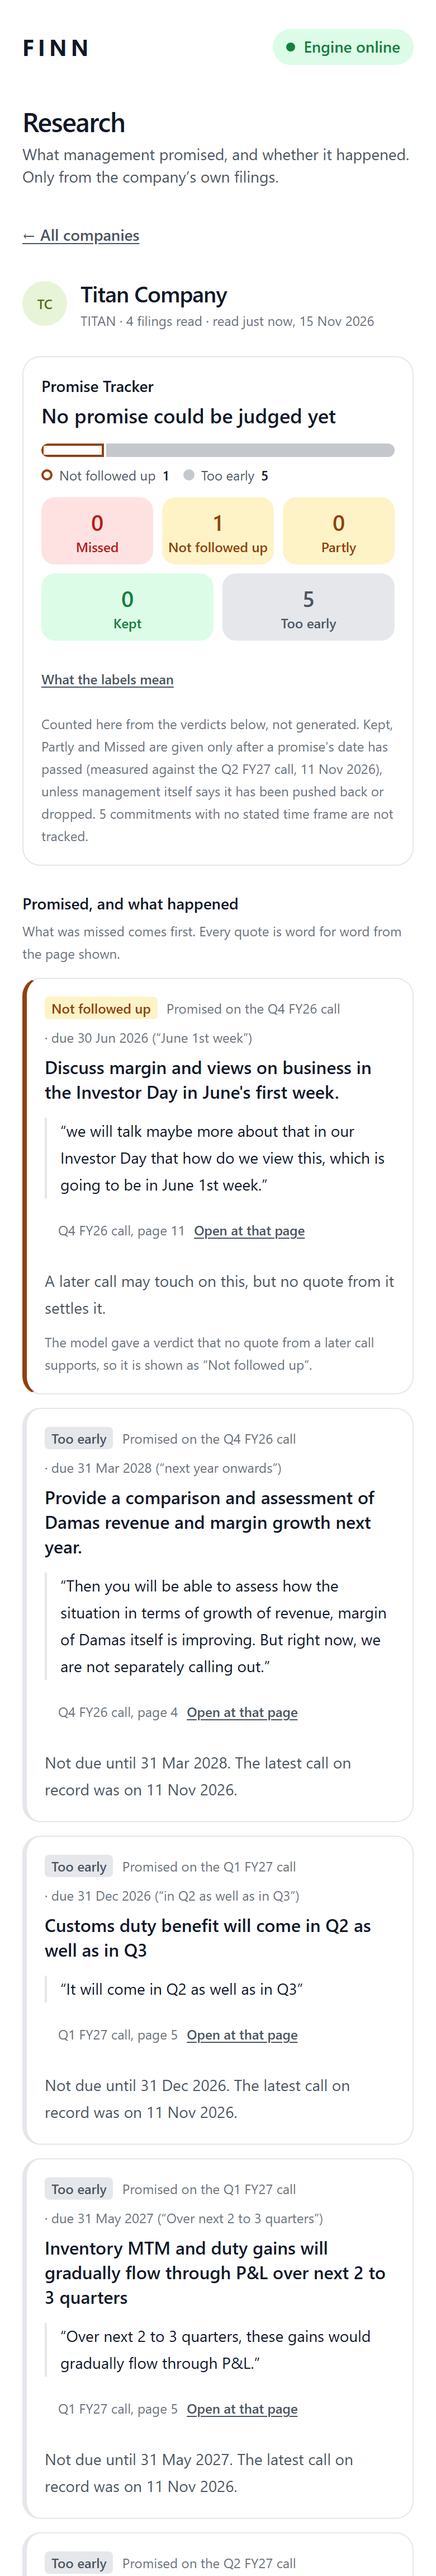
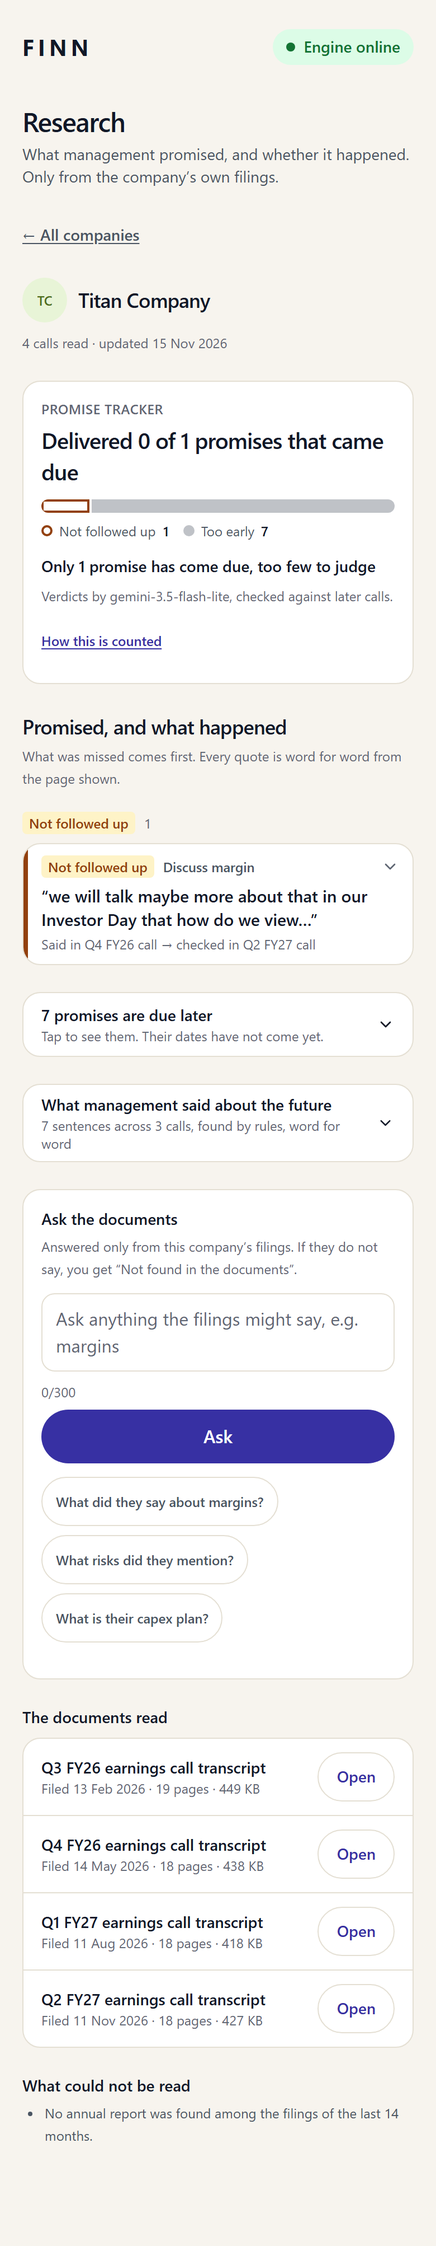
Docs: research behind the design, write-up and email sections, live checks
README: the Brief, Alerts, You and Research as they are now, a "Research
behind the design" table (references checked before use; the 73.3% override
rate is an inpatient study and is cited as one), the live TITAN and Naukri
checks, current test counts (680 backend, 129 frontend). write-up.md has the
four sections the email needs plus the references and their limits. decisions.md
gains S98-S110. submission.md: the email with the same sections and the known
limits as they are. README screenshots retaken from the live site at 390 px.

Research: when fewer than three promises have come due the summary says "too
few to judge" instead of reading as a verdict on a record of one.

diff --git a/frontend/lib/research.test.ts b/frontend/lib/research.test.ts
@@ -282,7 +282,9 @@ describe("the verdict summary", () => {
 
   it("says what the counts mean, by rule", () => {
     expect(soWhat(card({ kept: 1, missed: 3 }))).toBe("Missed more than it kept");
-    expect(soWhat(card({ kept: 1, missed: 1, too_early: 9 }))).toBe("Too early to judge most promises");
+    expect(soWhat(card({ kept: 2, missed: 1, too_early: 9 }))).toBe("Too early to judge most promises");
+    expect(soWhat(card({ kept: 1, missed: 1, too_early: 9 }))).toBe("Only 2 promises have come due, too few to judge");
+    expect(soWhat(card({ not_followed_up: 1, too_early: 7 }))).toBe("Only 1 promise has come due, too few to judge");
     expect(soWhat(card({ kept: 3, partly: 1, not_followed_up: 1, too_early: 5 }))).toBe("Mostly delivers, but went quiet on 1 promise");
     expect(soWhat(card({ kept: 3, not_followed_up: 2, too_early: 1 }))).toBe("Mostly delivers, but went quiet on 2 promises");
     expect(soWhat(card({ kept: 2, not_followed_up: 2, too_early: 1 }))).toBe("Mixed record: 0 missed, 2 gone quiet");

diff --git a/frontend/lib/research.ts b/frontend/lib/research.ts
@@ -329,12 +329,13 @@ export function deliveredShort(card: Scorecard | null): string | null {
 
 /**
  * One plain line on what the counts say, from fixed rules (never a model), bad news first:
- * nothing due, "Missed more than it kept", mostly too early, "Mostly delivers, but went quiet on 2 promises", and so on.
+ * nothing due, fewer than three due (too few to judge), "Missed more than it kept", mostly too early, "Mostly delivers, but went quiet on 2 promises", and so on.
  */
 export function soWhat(card: Scorecard): string {
   const { delivered, due } = decidedCounts(card);
   const quiet = card.not_followed_up ?? 0;
   if (due === 0) return card.too_early > 0 ? "Too early to judge: nothing has come due yet" : "Nothing to judge yet";
+  if (due < 3) return `Only ${due} ${due === 1 ? "promise has" : "promises have"} come due, too few to judge`;
   if (card.missed > delivered) return "Missed more than it kept";
   if (card.too_early > due) return "Too early to judge most promises";
   const rate = delivered / due;

diff --git a/docs/write-up.md b/docs/write-up.md
@@ -14,7 +14,10 @@ Both fail the same way in practice: a summary that sounds right and is wrong. So
 
 **Pull.** Research on any NSE ticker: the last four earnings-call transcripts and the annual report are found on the exchange and read; what management said about the future is listed word for word with its page; a Promise Tracker judges each promise against later calls; and "Ask the documents" answers only from the filings, or says "Not found in the documents".
 
-## The decisions that mattered
+
+**How it looks and behaves.** The Brief opens with one line counted in code ("1 risk to review · Busy day: 6 of your companies filed", or "Quiet day"), then each company once with its filings under it in three lines: a bold headline, then a grey line with an icon, a short label, a reason of about eight words and a Risk, Watch or Good tag. Everything else (the numbers, the PDF, the long reason) is one tap away. Alerts use the same window control as the Brief, show a calm dot on the tab instead of a count, and say why every alert fired, against the reader's own limit, and whether a filing from the same day explains the move. "You" is a profile without an account: a name kept only on the phone, the 18 companies with mute switches, preferences, and the three principles. Research opens with one counted line ("Delivered 2 of 5 promises that came due"), a stacked bar led by Missed, then the promises bad news first, each in three lines with a word-for-word excerpt and "Said in Q3 FY26 call → checked in Q2 FY27 call". The page is checked at 360 and 390 px, light and dark, with no sideways scroll and every text colour at 4.5:1 contrast or better.
+
+## Key decisions and trade-offs
 
 **Rules before a model, everywhere a rule can do the job.** The exchange labels every filing, so most are classified without any model. A results PDF is read by word position, not by a model, because a model reading a table is how a wrong number gets onto a screen, and because a rule can be tested against the real filing line by line. I tested the extractor on seven very different real results filings (a lender, a PDF turned sideways, a company that prints its year-ago column second, two scans) and each ends in a correct card or an honest refusal. For a scan, a figure is shown only where Yahoo Finance's profit before tax confirms it.
 
@@ -24,9 +27,55 @@ Both fail the same way in practice: a summary that sounds right and is wrong. So
 
 **Find the bugs by reading real output.** The most useful tests were the ones that looked at real data. Reading the live results exposed an off-by-one in a column order (ITC prints its year-ago quarter second), a damaged profit row in a PDF, two regexes that had silently lost their word boundary, and a classifier that called a Vice-Chairman "a minor role". Reading real transcripts showed that management's answers carry no speaker label at all, so I stopped showing speaker names rather than misattribute words. A test of the rate limit showed that the library counted limits per URL, so changing the ticker reset the allowance.
 
+**Trade-offs I chose on purpose.**
+- *Two lines for a headline, not one.* A fact cut to fit one line is a fact cut mid-way. The cost is a slightly taller card.
+- *A reason of about eight words, built by rules, not written by a model.* It is plainer and cheaper, and it can be clumsy ("Run off the specific" is a topic cut from a promise by rule). The longer reason is one tap away.
+- *Counted in code, said in plain words.* "Delivered 2 of 5" is arithmetic on the verdicts; "Mostly delivers, but went quiet on 2 promises" is a fixed rule on the counts. A model never writes a number or a summary a reader could mistake for a finding.
+- *A dot, not a count.* A count asks to be cleared; a dot says "look once". The price is that "new" means "since the data was refreshed", because without accounts there is no per-alert read state.
+- *No accounts.* A name and every setting stay on the phone, which means no sync and no push notifications.
+
+## Research behind the design
+
+These are the findings the design leans on. FINN does not test them: they are reasons for the choices, not results of this project. Each figure below was checked against its source before it went in, and where the evidence comes from another field, or is only press commentary, I say so.
+
+| Finding | What FINN does |
+|---|---|
+| When many companies report on the same day, investors react less to each one: attention is limited (Hirshleifer, Lim & Teoh, 2009) | A short, ranked Brief, and a "Busy day: N of your companies filed" line that says when attention is stretched |
+| Investors who check their portfolios often feel losses more strongly and hold less equity: myopic loss aversion (Benartzi & Thaler, 1995; shown in private investors' survey data by Lee & Veld-Merkoulova, 2016) | One calm Brief with an end, "You're all caught up", not a feed to check |
+| Investors look at their accounts less when they expect bad news (the ostrich effect; Karlsson, Loewenstein & Seppi, 2009), and logged in 9.5% less after a market decline (Sicherman, Loewenstein, Seppi & Utkus, 2016) | Risks first, and a line that says "N risks to review", so bad news is put in front of the reader, not left to be avoided |
+| Individual investors tend to buy stocks that grab their attention (Barber & Odean, 2008) | Spike alerts are calm and give their reason; there is no buy button near an alert |
+| Alerts get overridden: 93% of 2,455 visible medication alerts over four days (Bryant, Fletcher & Payne, 2014); 73.3% in a three-year inpatient study (Nanji et al., 2018) | A dot on the Alerts tab, not a count; a reason on every alert; routine filings in one collapsed row |
+| Robinhood removed its confetti animation in March 2021 amid criticism of gamification (CNBC) | No confetti, streaks, scores or reward animations |
+| Groww's minimal, jargon-free design for first-time investors (press commentary, not a usability study) | Three-line cards in plain words |
+| Sparklines (Tufte); calm technology, information at the edge of attention that moves to the centre only when needed (Weiser & Brown, 1995) | The price trend is a small line behind a tap; the interface speaks when something needs it |
+
+**What these do not show.** The medication studies are about doctors, not investors; I use them for one idea only, that a stream of alerts is overridden. The two attention studies describe what investors did, not what a brief like this would change. Nothing here claims FINN improves returns; the claim is narrower: it does not add to the noise.
+
+**References** (only these; each checked):
+- Hirshleifer, D., Lim, S. S., & Teoh, S. H. (2009). Driven to Distraction: Extraneous Events and Underreaction to Earnings News. *Journal of Finance*, 64(5), 2289–2325.
+- Benartzi, S., & Thaler, R. H. (1995). Myopic Loss Aversion and the Equity Premium Puzzle. *Quarterly Journal of Economics*, 110(1), 73–92.
+- Lee, B., & Veld-Merkoulova, Y. V. (2016). Myopic loss aversion and stock investments: An empirical study of private investors. *Journal of Banking & Finance*, 70, 235–246.
+- Karlsson, N., Loewenstein, G., & Seppi, D. (2009). The ostrich effect: Selective attention to information. *Journal of Risk and Uncertainty*, 38(2), 95–115.
+- Sicherman, N., Loewenstein, G., Seppi, D. J., & Utkus, S. P. (2016). Financial Attention. *Review of Financial Studies*, 29(4), 863–897. (The 9.5% is the fall in logins after a decline in the previous day's market; see the [Carnegie Mellon summary](https://www.cmu.edu/news/stories/archives/2015/december/ostrich-effect.html).)
+- Barber, B. M., & Odean, T. (2008). All That Glitters: The Effect of Attention and News on the Buying Behavior of Individual and Institutional Investors. *Review of Financial Studies*, 21(2), 785–818.
+- Bryant, A. D., Fletcher, G. S., & Payne, T. H. (2014). Drug interaction alert override rates in the Meaningful Use era: no evidence of progress. *Applied Clinical Informatics*. [PMC4187095](https://pmc.ncbi.nlm.nih.gov/articles/PMC4187095). (461 physicians, 18,354 orders, 2,455 visible alerts, 2,280 overridden.)
+- Nanji, K. C., Seger, D. L., Slight, S. P., et al. (2018). Medication-related clinical decision support alert overrides in inpatients. *Journal of the American Medical Informatics Association*, 25(5), 476–481. [PubMed 29092059](https://pubmed.ncbi.nlm.nih.gov/29092059). (An inpatient study at a 793-bed teaching hospital, not an outpatient one.)
+- CNBC, 31 March 2021: [Robinhood gets rid of confetti feature amid scrutiny over gamification of investing](https://www.cnbc.com/2021/03/31/robinhood-gets-rid-of-confetti-feature-amid-scrutiny-over-gamification.html).
+- Groww: [YourStory, 2019, "First-time investors find simplicity of Groww"](https://yourstory.com/2019/05/first-time-investors-find-simplicity-of-groww) (press commentary).
+- Tufte's sparklines. Weiser, M., & Brown, J. S. (1995). Designing Calm Technology.
+
 ## Efficiency
 
-A model is used for three things only, with a cheap model by default and a strong one only for judging; every answer is cached by its input, the prompt version and the model; no whole document is sent; and every call is logged without the prompt or the key. Measured over the whole session: 210 successful calls (75 from the cache) and about 367,000 tokens in and 35,000 out, $0 on the free tier; details in [cost.md](cost.md).
+A model is used for three things only, with a cheap model by default and a strong one only for judging; every answer is cached by its input, the prompt version and the model; no whole document is sent; and every call is logged without the prompt or the key. Measured over the whole session: 222 successful calls (81 from the cache) and about 385,000 tokens in and 36,000 out, $0 on the free tier; details in [cost.md](cost.md).
+
+## What I deliberately left out
+
+- **Push notifications and accounts.** They need a server that holds who you are and where to reach you. FINN keeps a name and every setting on the phone, so there is nothing to sync and nothing to leak; the Alerts screen says plainly that alerts are checked when the app is opened.
+- **News, broker notes and web search on the research side.** Research answers only from the company's own transcripts and annual report, so every claim can show its page. The management bio on a card is the filing's own profile, not a web search.
+- **Company logos and people's photos.** Licensing, privacy and accuracy risk; a coloured initials badge carries the same meaning with none of it.
+- **Following people and investing, as anything but a labelled preview.** The Interested tab, "People to follow" and the Invest sheet are marked Preview in the app: the companies, prices, verdicts and names are real, but following triggers nothing and Invest opens a "coming soon" sheet with no order flow.
+- **Gamification.** No streaks, scores, badges or reward animations. The Brief ends.
+- **A language switch that does nothing.** The You tab says English is the only language today.
 
 ## Honest limits
 
@@ -34,20 +83,29 @@ A model is used for three things only, with a cheap model by default and a stron
 - The strong model's free quota is 20 requests a day and ran out during re-runs, so most shipped verdicts were made by the cheap model (`gemini-3.5-flash-lite`); each record says which model answered. Re-running after the quota resets would use the strong one.
 - Deployed, and research on a ticker that was never prepared works live because the engine falls back to NSE when BSE refuses Render (HTTP 403). It reads transcripts from NSE's filings; an annual report is not always among them (TITAN's was not), and the record says so.
 - Neither Vercel nor Render deploys on `git push` (no GitHub link on either); deploys are triggered by hand.
+- Naukri's 99acres billings promise was wrongly "Not followed up"; it is now Kept, with the Q2 FY27 call as evidence (page 5), re-read on the live site. TITAN, never prepared, researched live on Render in 34 seconds (four transcripts, 8 promises) with no annual report in NSE's feed.
 - HAL files one transcript in 14 months, so no tracker is possible for it; Asian Paints' annual report is over the 25 MB limit and is skipped, and the record says so.
+- Checked in a phone-sized browser at 360 and 390 px, not on a real phone. A promise's topic is cut from its own words by rule and is sometimes clumsy.
 - The Interested tab, following people and Invest are a concept preview (marked Preview in the app). No push notifications: they need accounts. The Alerts screen says so.
 
-## What I would do next
+## Where I'd take it next
+
+First, the engineering:
 
 1. Re-run the Promise Tracker once the strong model's daily quota resets, and read every verdict against the transcripts again.
 2. Add a second source for the annual report when NSE's feed has none (the filing lists on the company's own site).
 3. Move the pipeline to a schedule once a server can reach the exchanges.
 4. Add the consensus estimate for results, so a card can say "beat" or "missed" instead of only "up" or "down" against last year.
 
-### Where I'd take the product
+Then, the product:
 
 1. **Watchlist tabs.** The Brief already has Invested and Interested tabs (the second is a preview on real data). Next: let a reader add any NSE ticker to Interested, keep the list on a server once there are accounts, and give each company its own alert rules.
 2. **Follow people, from primary sources.** The preview lists people named in real management-change filings. The real version tracks a followed person through exchange filings: insider trades (SEBI PIT disclosures), substantial acquisitions (SAST), and management changes. Investor-alert tools such as Trendlyne sell this; FINN would build it from the filings themselves and show the filing as the source.
 3. **Invest through a broker partner.** The "Invest" button is a placeholder. The model I'd test is a SEBI-registered broker partner that opens its own order screen from a company's page; FINN would earn a referral fee and never hold money or give advice. That is the revenue model.
 
-The full record: [decisions](decisions.md) (24 up front, 97 while building), [data sources](data-sources.md) (what was verified, and what failed), and the [build log](build-log.md).
+4. **Optional holdings, with exposure-weighted ranking.** Let a reader say how much they hold, and rank the Brief by what each filing could do to their money, not by the filing's weight alone.
+5. **A three-question first-time setup.** Which companies, how much attention, what counts as a risk; nothing else is asked.
+6. **One brief a day, with quiet hours.** The calm dot is a first step; the next is a single daily time, and silence outside it.
+7. **Hinglish across the app.** Fixed phrases in a dictionary, not machine translation; company names, numbers and quotes stay as filed.
+
+The full record: [decisions](decisions.md) (24 up front, 110 while building), [data sources](data-sources.md) (what was verified, and what failed), and the [build log](build-log.md).

diff --git a/docs/submission.md b/docs/submission.md
@@ -33,22 +33,42 @@ Still yours:
 > **FINN** is a mobile-first Financial Investment Agent for Indian stocks.
 > - **Live app:** https://finn-mocha.vercel.app (open it on a phone; the research engine may take a minute to wake)
 > - **Code:** https://github.com/dpathriya8-maker/finn
-> - **Start with:** the [README](https://github.com/dpathriya8-maker/finn#readme) (what is verified and what is not, in a table) and [docs/write-up.md](https://github.com/dpathriya8-maker/finn/blob/main/docs/write-up.md) (the approach in two pages).
+> - **Start with:** the [README](https://github.com/dpathriya8-maker/finn#readme) (what is verified and what is not, in a table) and [docs/write-up.md](https://github.com/dpathriya8-maker/finn/blob/main/docs/write-up.md) (the approach, the research behind the design, and what I left out).
 >
-> **Look and feel:** price chips and 30-day sparklines on every company card, one icon per filing type, revenue and profit bars on results cards, a stacked verdict bar on Research, and the time window in a bottom sheet.
+> **What I built**
+> - **Push:** a Morning Brief of 18 portfolio companies. One line counted in code ("1 risk to review", "Busy day: 6 of your companies filed", or "Quiet day"), then each company once with its filings under it in three lines, ranked so risks come first, with routine filings collapsed and a finite end. Results cards (Revenue, EBITDA, PBT, PAT, QoQ and YoY, read from the filing with no model and checked against Yahoo Finance); management-change cards with the filing's own profile; calm alerts on thresholds the user sets, each stating its reason and whether a same-day filing explains the move.
+> - **Pull:** research on any NSE ticker from the company's own transcripts and annual report: "Delivered 2 of 5 promises that came due" counted in code, a Promise Tracker with the bad news first (Kept / Partly / Missed / Not followed up / Too early, each with its quote, document and page), what management said about the future, and "Ask the documents", which answers only from the filings or says "Not found in the documents".
+> - **You:** a profile with no account: an optional name kept on the phone, the portfolio with mute, preferences, and how FINN works.
 >
-> **Push:** a Morning Brief of 18 portfolio companies, ranked so risks come first; results cards (Revenue, EBITDA, PBT, PAT, QoQ and YoY, read from the filing with no model and checked against Yahoo Finance); management-change cards with the filing's own profile; alerts on thresholds the user sets, instant to change.
-> **Pull:** research on any NSE ticker from the company's own transcripts and annual report: what management said about the future, a Promise Tracker (Kept / Partly / Missed / Not followed up / Too early, each with its quote, document and page), and "Ask the documents", which answers only from the filings or says "Not found in the documents".
+> **Key decisions and trade-offs**
+> - A claim is shown only with its source, and a number is never a model's guess: a quote appears only if it is word for word on the page it cites; a verdict needs a quote from a later call; a promise is not called Kept, Partly or Missed before its date has passed; every count, change, margin and the "Delivered N of M" line is computed in code.
+> - Rules before a model: most of the app uses no model (classification, the cards, retrieval, the summary lines). A model is used for three things only, a cheap one by default, every answer cached and every call logged: 222 successful calls, 81 from the cache, about 385,000 tokens in and 36,000 out, all on the free tier ($0).
+> - The design follows research on investor attention and alert fatigue (short ranked Brief, risks first, a dot not a count, a reason on every alert, no confetti or streaks); the findings and how I used each, with their limits, are in the write-up. A headline takes two lines, not one, so a fact is never cut mid-way.
+> - [24 decisions made up front and 110 while building](https://github.com/dpathriya8-maker/finn/blob/main/docs/decisions.md), [what was verified about each data source, including what failed](https://github.com/dpathriya8-maker/finn/blob/main/docs/data-sources.md), and the [build log](https://github.com/dpathriya8-maker/finn/blob/main/docs/build-log.md).
 >
-> **How it avoids making things up:** a quote is shown only if it is word for word on the page it cites; a verdict needs a quote from a later call; when a promise is due, every number, change and margin is computed in code, and a promise is not called Kept, Partly or Missed before its date has passed. A source that disagrees is shown, not hidden.
+> **What I deliberately left out**
+> - Push notifications and accounts (they need a server that knows who you are; FINN keeps settings on the phone).
+> - News, broker notes and web search on the research side: research answers only from the company's own filings.
+> - Company logos and people's photos (licensing, privacy and accuracy risk).
+> - Following people and investing exist only as a labelled preview (the data is real; following triggers nothing and Invest is a "coming soon" sheet).
 >
-> **Cost and efficiency:** most of the app uses no model (classification, the cards, retrieval). A model is used for three things only, with a cheap model by default, every answer cached by its input and prompt version, and every call logged. Measured over the whole build session (the live runs of the tracker and their re-runs): 222 successful calls, 81 of them answered from the cache, about 385,000 tokens in and 36,000 out, all on the free tier ($0).
->
-> **Decisions and history:** [24 decisions made up front and 97 while building](https://github.com/dpathriya8-maker/finn/blob/main/docs/decisions.md), [what was verified about each data source, including what failed](https://github.com/dpathriya8-maker/finn/blob/main/docs/data-sources.md), and the [build log](https://github.com/dpathriya8-maker/finn/blob/main/docs/build-log.md).
+> **Where I'd take it next**
+> - Optional holdings, with ranking weighted by exposure.
+> - Following people through exchange filings: insider trades, substantial acquisitions (SAST) and management changes.
+> - A three-question first-time setup; one brief a day with quiet hours.
+> - Hinglish across the app.
+> - Investing through a SEBI-registered broker partner, as the revenue model.
 >
 > **AI build history** (required by the brief): `<share link of the planning chat on claude.ai>` · `<Claude Code session exports or links>` · `<share link of the chat where I studied the brief>`. The step prompts the planning chat wrote are also kept in [STEPS.md](https://github.com/dpathriya8-maker/finn/blob/main/STEPS.md), and every step's outcome is in the build log.
 >
-> **Known limits, stated plainly:** (1) The first run of the Promise Tracker was too generous (24 of 54 verdicts Kept), so I made dates and numbers decided by code and added a second reading; it is now 40 promises: 6 Kept, 1 Partly, 1 Missed, 3 Not followed up, 29 Too early. I read each decided verdict against the transcript and fixed what I found, but have not audited all of them. (2) The strong model's free quota (20 requests a day) ran out during re-runs, so most of these verdicts were made by the cheap model, `gemini-3.5-flash-lite`; each record says which model answered. (3) BSE answers HTTP 403 from Render, so the live engine falls back to NSE: research on a ticker I never prepared works (TITAN: four transcripts read in 32 seconds), but NSE's feed does not always include an annual report, and the record says so. (4) HAL has only one call in the window, so it has no tracker. (5) The Interested tab, following people and the Invest button are a concept preview on real data, marked Preview in the app. (6) No push notifications.
+> **Known limits, stated plainly:**
+> 1. The Promise Tracker's first run was too generous (24 of 54 verdicts Kept), so dates and numbers are now decided by code and a second reading was added. It is now 40 promises: 6 Kept, 1 Partly, 1 Missed, 3 Not followed up, 29 Too early. I read each decided verdict against its transcript and fixed what I found, but have not audited all of them.
+> 2. The strong model's free quota (20 requests a day) ran out during re-runs, so most verdicts were made by the cheap model, `gemini-3.5-flash-lite`; each record says which model answered.
+> 3. Naukri's 99acres billings promise was wrongly "Not followed up"; it is now Kept, with the Q2 FY27 call (page 5) as evidence, re-read on the live site.
+> 4. A ticker I never prepared works live: TITAN was researched on the deployed engine in 34 seconds (four transcripts, 8 promises, a question answered with quotes, an unrelated one answered "Not found"). BSE answers HTTP 403 from Render, so the engine falls back to NSE, whose feed had no annual report for TITAN; the record says so.
+> 5. HAL has only one call, so it has no tracker (the page says why); Asian Paints' annual report is over the 25 MB limit and is skipped.
+> 6. The Interested tab, following people and Invest are a concept preview, marked Preview in the app. No push notifications.
+> 7. Checked in a phone-sized browser at 360 and 390 px, light and dark, not on a real phone. Neither Vercel nor Render deploys on push; I deploy by hand.
 >
 > Thank you,
 > DP

diff --git a/docs/decisions.md b/docs/decisions.md
@@ -132,3 +132,16 @@ Why FINN is built the way it is. D-entries were decided before the first line of
 | S95 | 14 | "Invest" opens a sheet that says it is coming soon through a SEBI-registered broker partner. There is no order flow, no balance and no advice. | The revenue idea is shown, nothing is pretended. |
 | S96 | 15 | A bare commitment is searched under the business unit named just before it (names such as 99acres, B2B or VAE in the lead-in sentences), among the chunks of each later call that name it, ranked by what was promised. | "We expect billings growth to recover in Q1" matches a dozen other segments' passages as well as the 99acres one, so none of them was offered to the judge. |
 | S97 | 15 | When BSE refuses the server, the company index is built from NSE alone and every company is read through NSE's filings feed; if NSE's own list is unreachable, the symbol is taken as typed and the feed decides. | BSE answers HTTP 403 to Render; NSE, Yahoo and screener work there. It makes research on an unprepared ticker work on the deployed engine. |
+| S98 | 16 | A page that scrolls sideways is fixed at its cause, then guarded. The screen-reader text (`sr-only`, absolutely positioned) in the off-screen Interested tab escaped the tab scroller's clip and stretched the page to 558 px at 360 px; the scroller and the layout column are now positioned and clip sideways overflow (`overflow-x: clip`, which keeps `sticky` working), and the bottom nav is a `sticky` child of the same centred column instead of `fixed`. | Reproduced first on the live site (`scrollWidth` 558). Mobile Chrome widens the layout viewport to fit such content, which put the nav 64 px off-centre with a dark strip beside it. A fixed nav outside the column could never line up with it. |
+| S99 | 16 | A filing is three lines under its company: the company once (badge, short name, price chip), then per filing a bold headline and a grey line (icon, short label, reason, tone). Sparkline, time, tables, PDF and the long reason are behind a tap. Companies are ordered by their highest-priority filing. The headline may take two lines. | 3-second rule and one primary action. One company with five filings is one card, not five. A fact cut to one line is a fact cut mid-way, so two lines, never more. |
+| S100 | 16 | The one-line reason on a card is about eight words and is built on the client by rules: from the figures on a results card ("Profit fell vs last year"), else the pipeline's own note, else the category's meaning, cut at a clause. The pipeline's longer `why` is unchanged and shown in the details. | Plain words at a glance, with the full reason still one tap away. Rules, not a model, and no pipeline change was needed. |
+| S101 | 16 | Short category labels, never cut off: Results, M&A, People, Fund raise, Legal, Rating, Dividend, Pledge, Meeting, Routine (and Bonus, Capex, Update, Other). | Full names such as "Litigation & regulatory action" do not fit a phone's third line. |
+| S102 | 16 | Colour: an indigo accent (tabs, buttons, links, focus ring) is a separate token from good (green), bad (red) and watch (amber), which are always paired with ▲▼ or a word. The page and the cards are different tokens (warm off-white and white; indigo-tinted charcoal and one step lighter). Every text pairing is 4.5:1 or better, checked by computing contrast on every text element in a real browser. | Colour carries meaning only (rule 9): the accent must never read as good or bad. Cards one step lighter than the page give depth without borders. |
+| S103 | 16 | One summary line, counted in code: "N risks to review" (material filings tagged Risk), "Busy day: N of your companies filed" (five or more companies with a material filing), "Quiet day: nothing needs action across your N companies". If something is material but is neither a risk nor a busy day it says "N filings worth a look". | Negativity bias and the busy-day finding, without a model. The last case was not in the brief; without it the line could be empty. |
+| S104 | 16 | Alerts: a calm dot on the tab, never a count, shown when there are alerts and the reader has not opened Alerts since the data was refreshed (a local timestamp). Every price or volume alert states its reason against the reader's own limit and whether a material filing from the same India calendar day explains the move, else "No filing explains this move". Routine filings do not count as an explanation. | A count invites checking; a reason makes an alert actionable. "New" is per refresh because there is no per-alert read state without accounts. |
+| S105 | 16 | One `WindowHeader` (title, sliders button, bottom sheet, "Showing the last 24 hours") and one stored `windowHours` serve both the Brief and Alerts. | One control, one setting: a change on either is the change on both. |
+| S106 | 16 | "You" replaces Settings: an initials circle and an optional name kept in localStorage only (never sent anywhere), used for the greeting; My portfolio (mute), Preferences, How FINN works. The route stays `/settings`. The greeting follows the device clock. The Language row says English is the only language; it is not a setting. | A profile feel with no account and no personal data. Existing links keep working. A language switch that does nothing would be a fake feature. |
+| S107 | 16 | "Delivered N of M promises that came due" is Kept and Partly out of Kept, Partly, Missed and Not followed up. "Too early" is not counted. A "so what" line comes from fixed rules on the counts (fewer than three due: "too few to judge"; Missed more than it kept; too early to judge most; mostly delivers but went quiet on N; mixed). | ENAM's weight is on promised against delivered; a promise that is not due cannot be a failure or a success. Counted in code, never by a model. |
+| S108 | 16 | A promise is three lines: verdict chip and a two-to-four-word topic cut from the promise's own words by rules; a word-for-word excerpt of at most 80 characters (the start of the quote, never reworded); "Said in X call → checked in Y call". Groups are bad news first, five at a time. "Too early" is one collapsed row, soonest due first. Statements are collapsed, newest call first, three per call. | Consistency with the Brief, and the quote rule still holds (a quote is shown only if it is verbatim): the excerpt is a prefix of the real quote, checked on screen. |
+| S109 | 16 | A company with fewer than two earnings calls gets a plain explanation ("Only 1 earnings call found, so promises can't be checked yet") and no verdict summary. The text says "found", not a time window. | A promise is judged by a later call, so one call cannot judge. The engine's own warning says it looked back 14 months, so a claim of 12 would contradict it. |
+| S110 | 16 | The design-research references are used only as reasons, never as results of FINN. Each figure was checked against its source before it went in; the 73.3% override rate (Nanji et al., 2018) is an inpatient study, not outpatient, and is cited as such. The Groww claim is press commentary and is labelled so. | A reference that is wrongly described is worse than none. |

diff --git a/docs/build-log.md b/docs/build-log.md
@@ -355,3 +355,18 @@ One entry per step: what was asked, what was done, what went wrong. Newest at th
 **Verified:** 129 unit tests, types, lint, build. In a phone-sized Chromium: 36 behaviour checks on the real shipped records (the summary numbers recomputed from the raw record, group order, at most five per group, every excerpt on screen is the unchanged start of a real quote, three lines per collapsed card, page links of the form `.pdf#page=N`, collapsed rows, HAL's explanation, the Interested-tab link into Research); 360 and 390 px, light and dark, no sideways scroll and no text below 4.5:1.
 
 **Not working / known:** the topic is cut by rules, so a few are clumsy ("Run off the specific"). The excerpt is the start of the quote, not the most telling part. The HAL card says "found", not "in the last 12 months", because the engine looked back 14 months. Verdicts on shipped companies were made by the cheap model (the strong model's free quota ran out earlier). Ask needs the live engine; with it asleep it says so.
+
+## Final docs and live checks (15 Nov 2026, "Chat 4")
+
+**Asked:** the research references, the README and write-up sections the email needs, one live TITAN run, a Naukri re-check, fresh README screenshots, and the email text.
+
+**Done:**
+- **References checked before use.** Each number was searched: 9.5% fewer logins after a market decline (Sicherman et al., RFS 29(4)) and 93% of 2,455 alerts overridden in four days (Bryant, Fletcher & Payne, 2014) are right. **The 73.3% (Nanji et al., JAMIA 2018) is an inpatient study at a 793-bed hospital, not outpatient**, so it is cited as that. The Groww claim is press commentary and is labelled so. Only the references in the brief are used.
+- **TITAN on the deployed engine:** it woke at once, researched TITAN in 34 seconds (four transcripts of 18 to 19 pages; 8 promises, 1 Not followed up and 7 Too early; 7 statements; the cheap model, 9 calls, about 21,000 tokens in), answered "What did management say about margins?" with four quotes, and answered an unrelated question with "Not found in the documents". No annual report was in NSE's feed ("No annual report was found among the filings of the last 14 months"), and the record says so.
+- **Naukri, re-read from the live site:** the 99acres billings promise is **Kept**, with "Billings grew by 21% YoY in Q2, up from 17% in Q1" from the Q2 FY27 call, page 5. It was the wrong "Not followed up".
+- **Tests:** 680 backend tests pass; 129 frontend unit tests, types, lint and build pass.
+
+**Not working / known:** see the Known limits in `docs/submission.md`.
+
+
+**Late addition, found by looking at the TITAN page:** "Delivered 0 of 1 promises that came due" followed by a so-what line reads as a verdict on a record of one. When fewer than three promises have come due the line now says "Only 1 promise has come due, too few to judge" (decision S107). Deployed and checked on the live site: 36 of 36 Research checks, 29 of 29 earlier checks, no sideways scroll and no text below 4.5:1 on the TITAN page. The README screenshots were retaken from the live site at 390 px.
